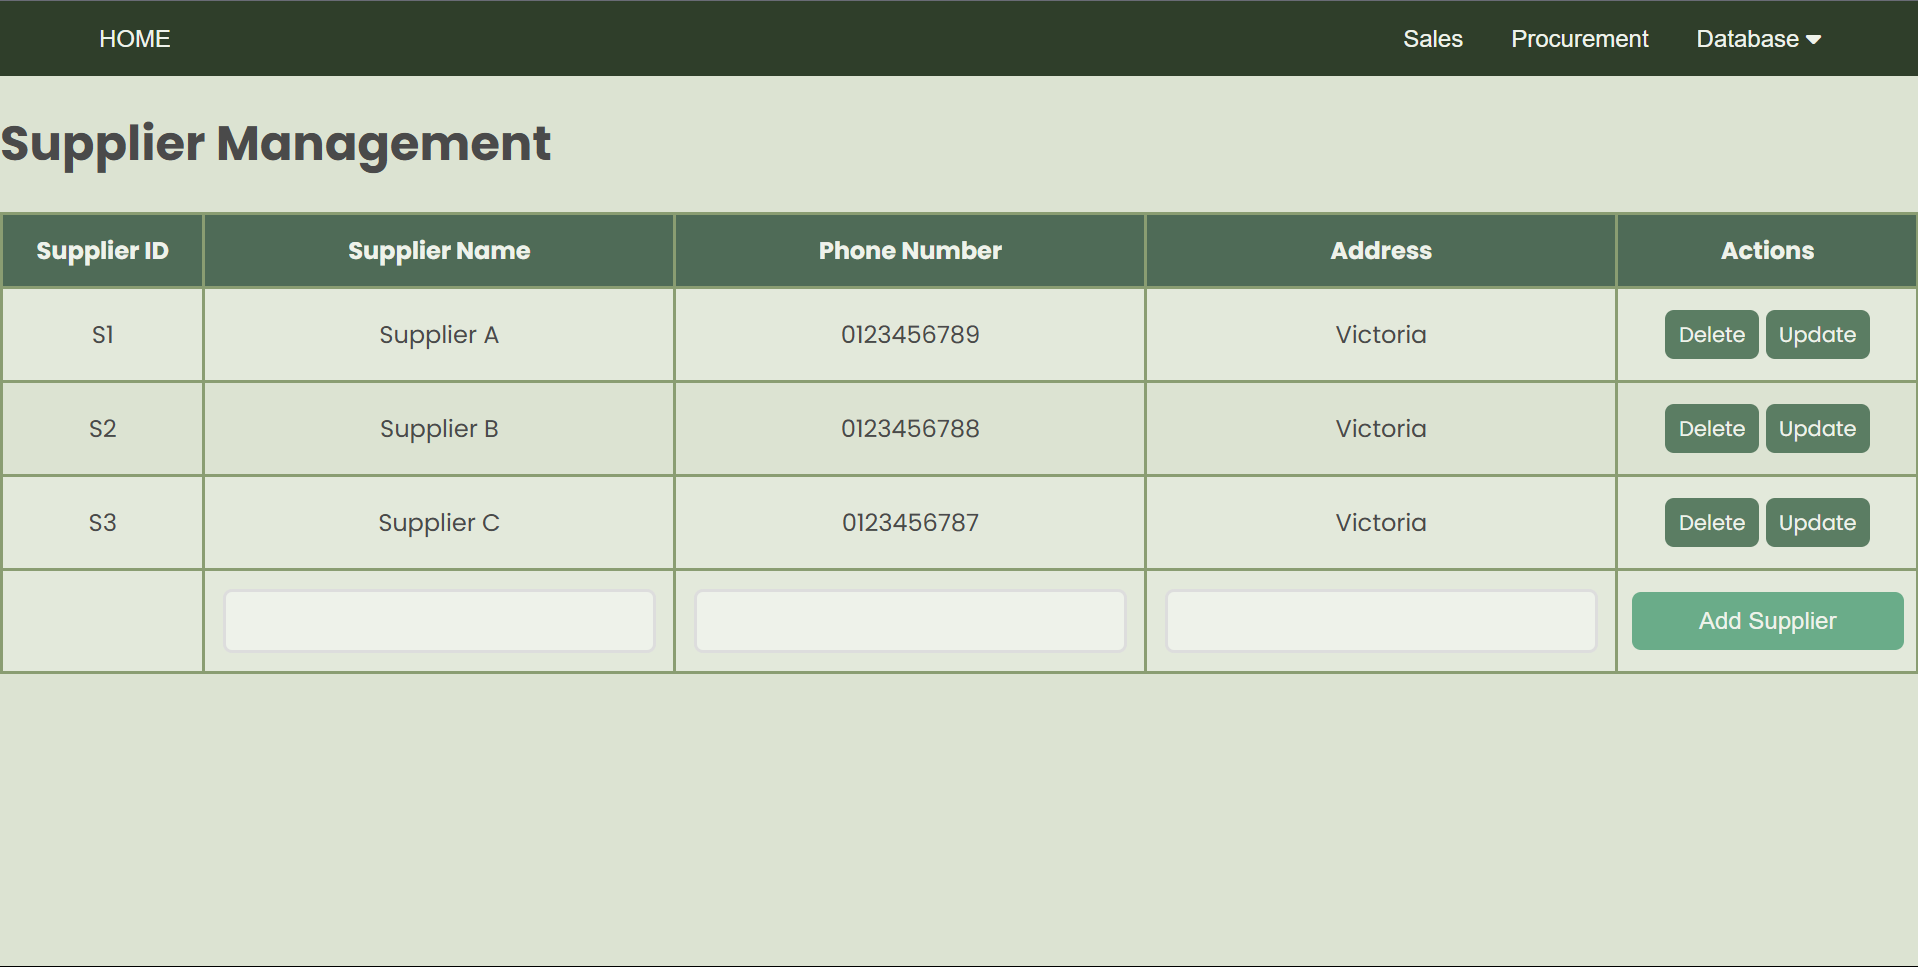
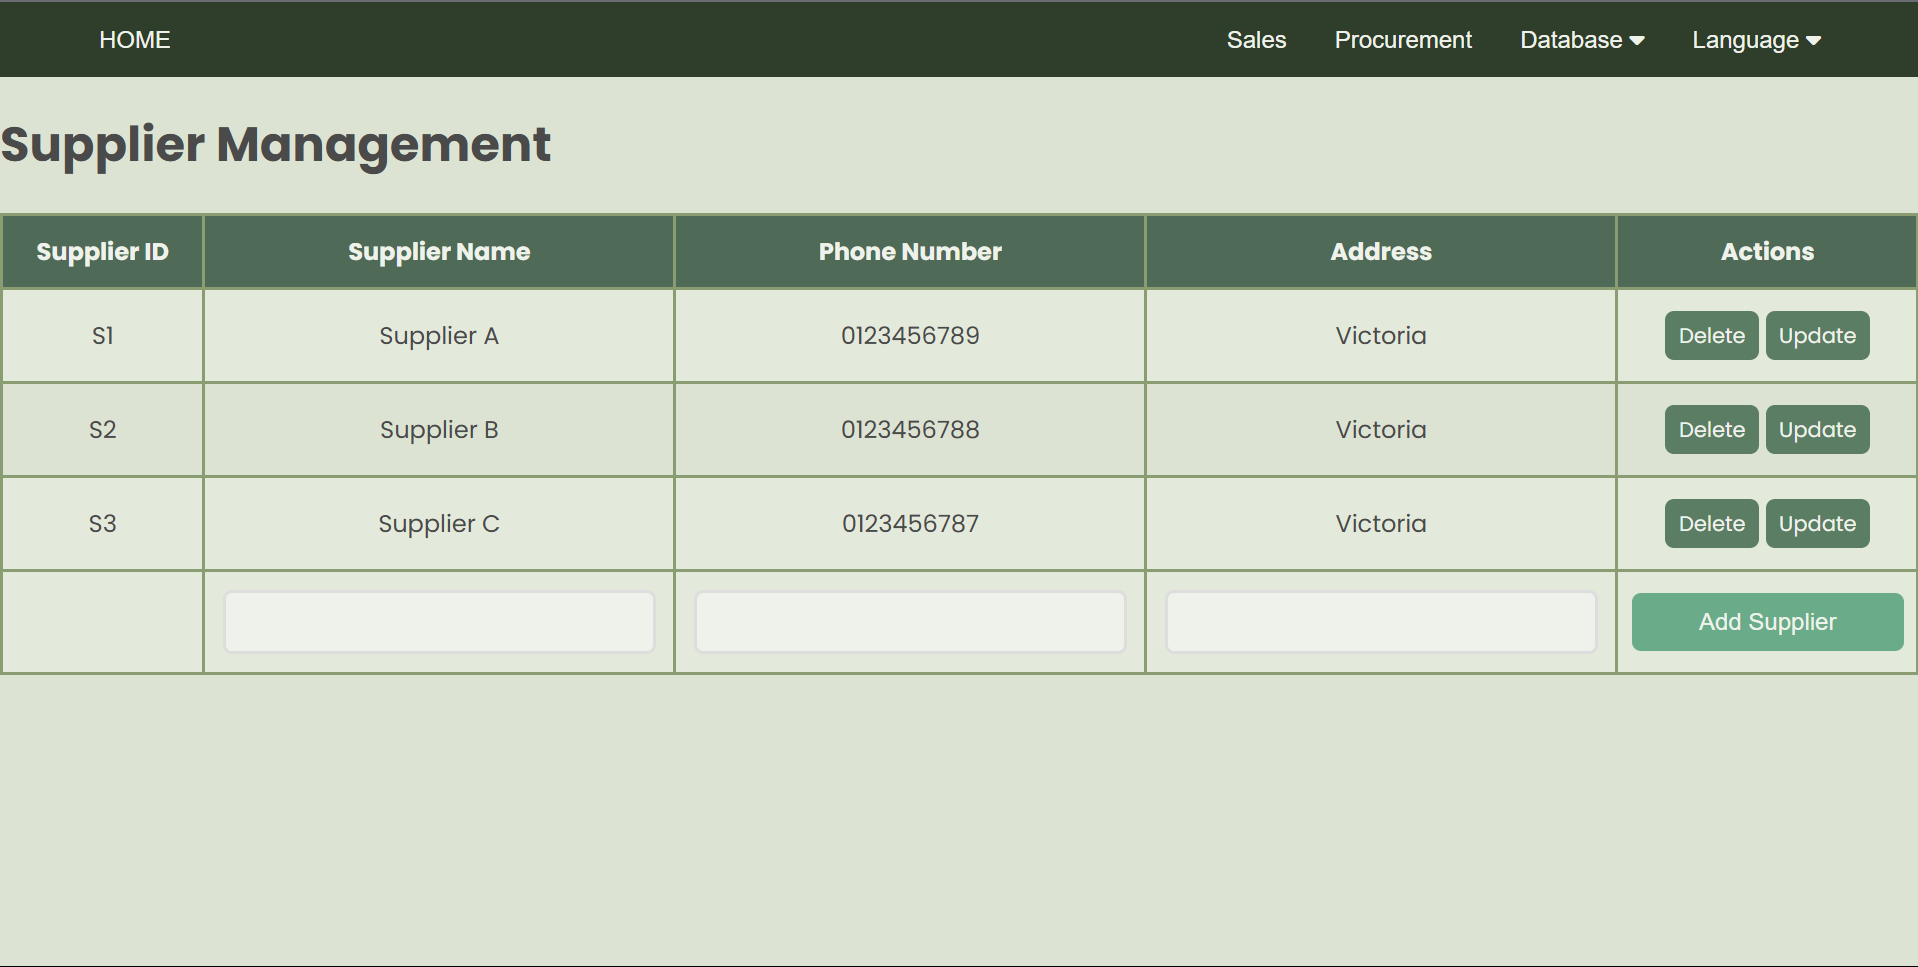
New readme file

diff --git a/product_sales.py b/product_sales.py
@@ -7,7 +7,7 @@ from flask_sqlalchemy import SQLAlchemy
 
 app = Flask(__name__)
 
-app.config['SQLALCHEMY_DATABASE_URI'] = "sqlite:///product_sales.db"
+app.config['SQLALCHEMY_DATABASE_URI'] = "sqlite:////app/instance/product_sales.db"
 db = SQLAlchemy(app)
 
 app.config["SESSION_PERMANENT"] = True

diff --git a/README.md b/README.md
@@ -24,12 +24,18 @@ This will set up and run the app inside the Docker container
     - Sales: Manage customer orders, stock tracking, ordering list, deliveries and payments.
     - Procurement: Manage suppliers and their products
     - Database: Store and display information about customers, suppliers, products, purchase orders and sales orders
+    - Language: Switch between English and Vietnamese
 
 ![image](https://github.com/nhatthanhduong/Sales-Management/blob/master/user_guide/home.png)
 
 2. Procurement:
-    - Click the "+" button to add a new supplier
-    - Click on a supplier’s card to view their products or add a new product
+    1. Suppliers - Products section to manage suppliers and their products
+        - Click the "+" button to add a new supplier
+        - Select a supplier’s card to view their products or add a new product  
+    2. Purchase Orders section to manage unpaid purchase orders to suppliers
+        - Select a supplier’s card to view unpaid purchase orders  
+        - Click the "Paid" button to mark an individual order as paid  
+        - Click the "All Paid" button to clear all unpaid orders for that supplier  
 
 ![image](https://github.com/nhatthanhduong/Sales-Management/blob/master/user_guide/procurement.png)
 ![image](https://github.com/nhatthanhduong/Sales-Management/blob/master/user_guide/procurement_add.png)
